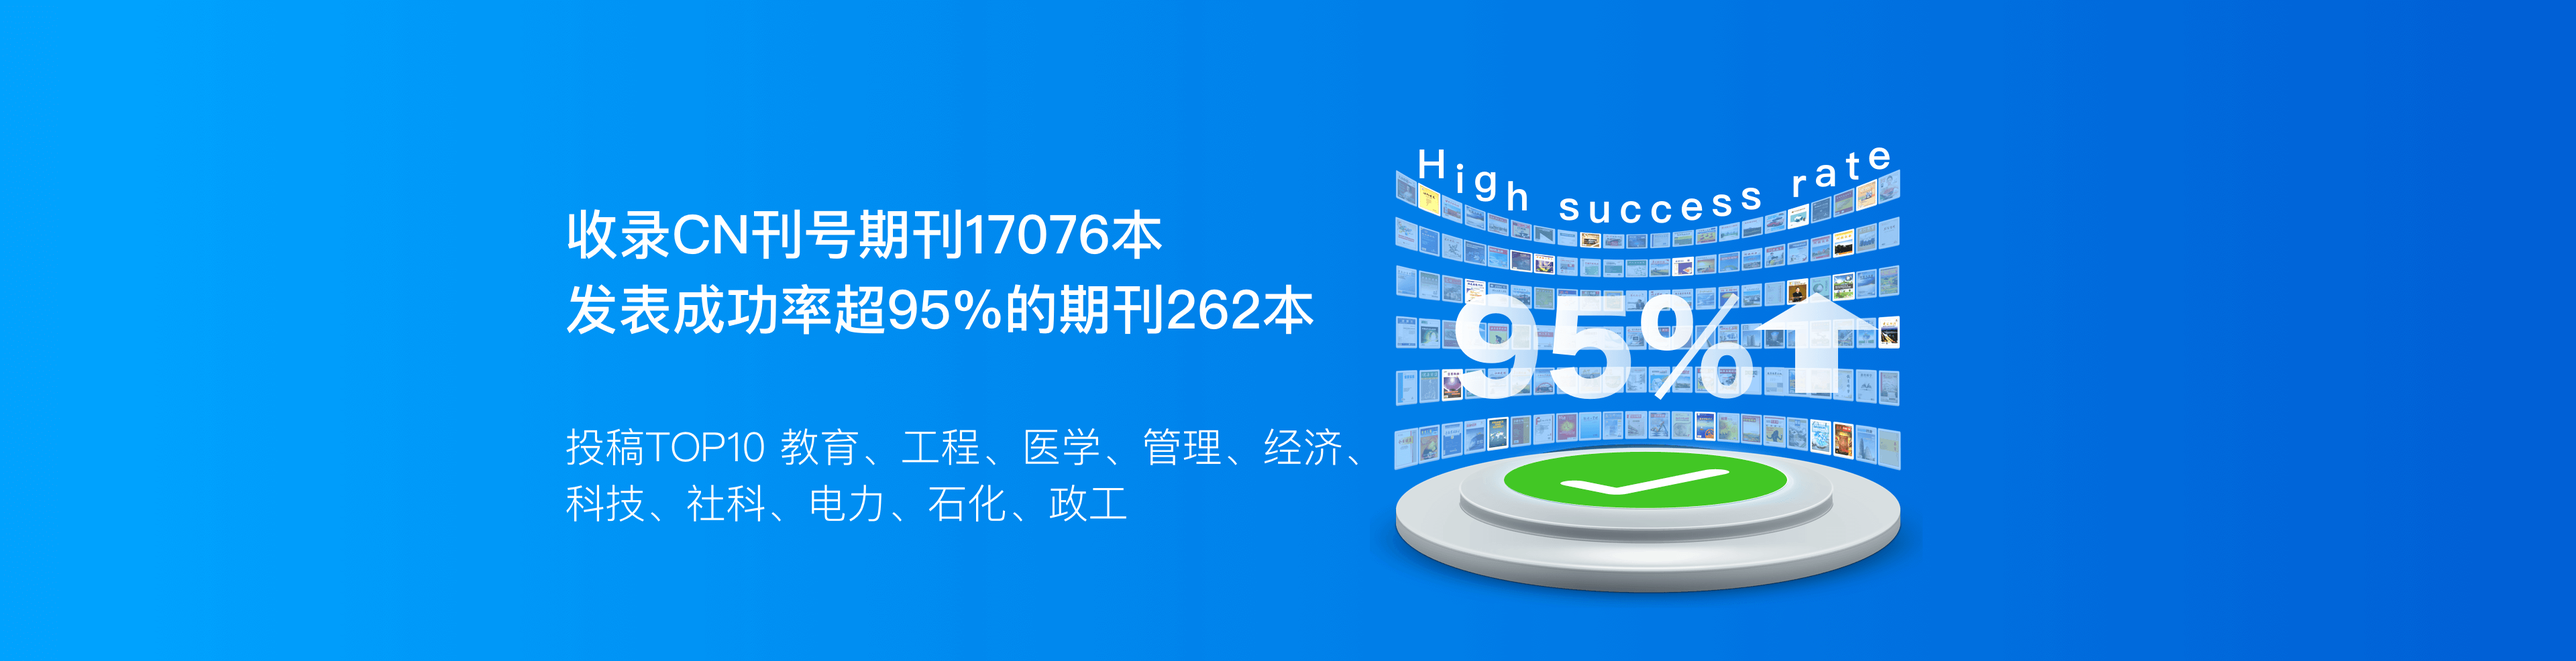
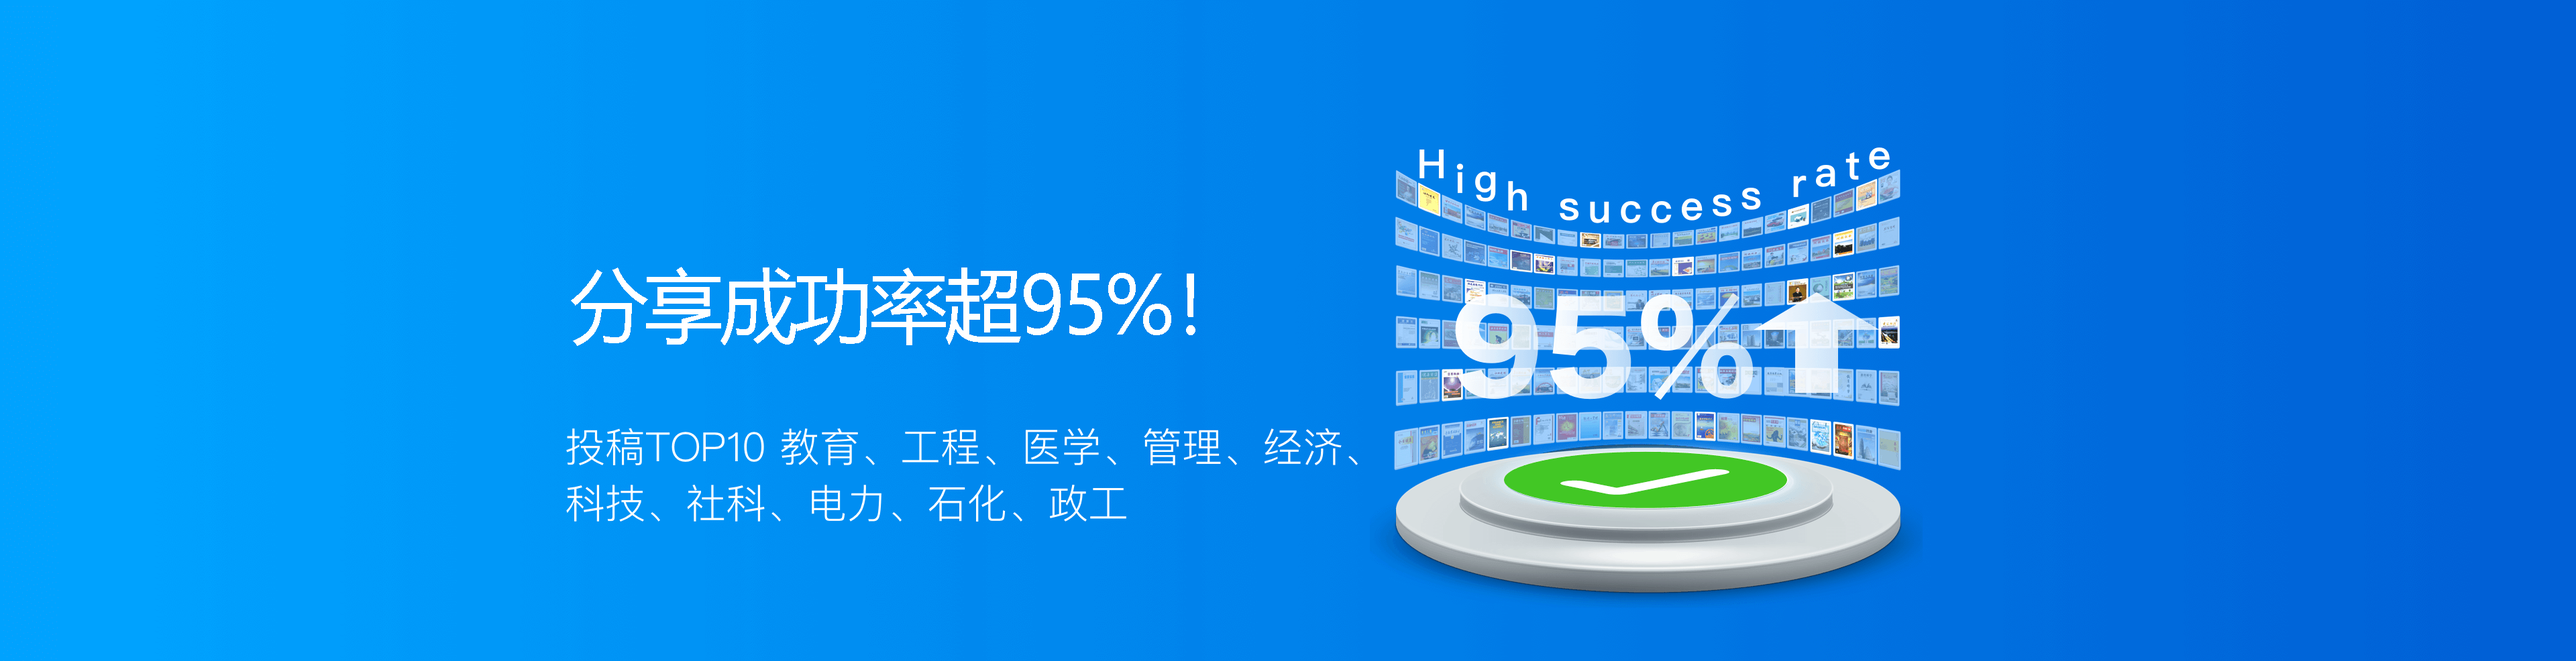
修改轮播图

Changed region(s): [[0.2188, 0.3043, 0.5312, 0.5172]]

diff --git a/src/views/HomePage/HomePage.vue b/src/views/HomePage/HomePage.vue
@@ -1,7 +1,7 @@
 <template>
   <div class="HomePage">
     <!-- 轮播图 -->
-    <!-- <div class="round-chart">
+    <div class="round-chart">
       <transition-group name="runbo">
         <div class="banner doc-banner" v-show="show == 0" key="0">
           <img src="../../assets/images/index_banner1.png" />
@@ -20,12 +20,12 @@
       <ul>
         <li
           :class="{ active: index === show }"
-          v-for="index in [0, 3]"
+          v-for="index in [0,1,2,3]"
           :key="index"
           @click="changePics(index)"
         ></li>
       </ul>
-    </div> -->
+    </div>
     <!-- 精品期刊 -->
     <div class="book-show">
       <BookIntro :bookSum="books[0]" />
